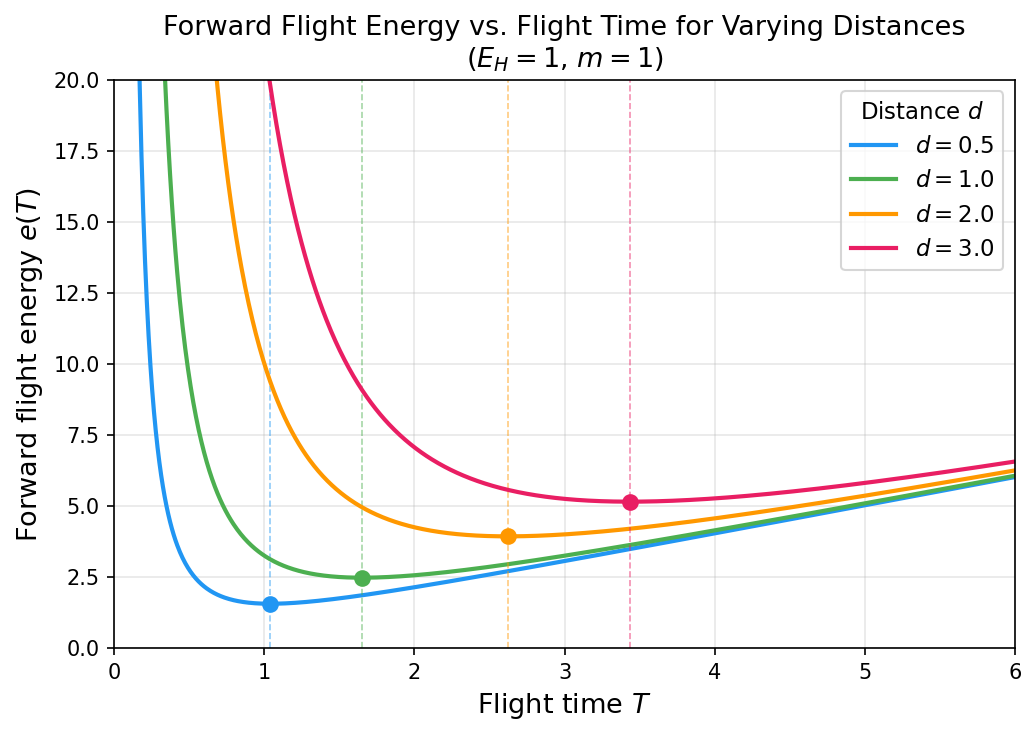
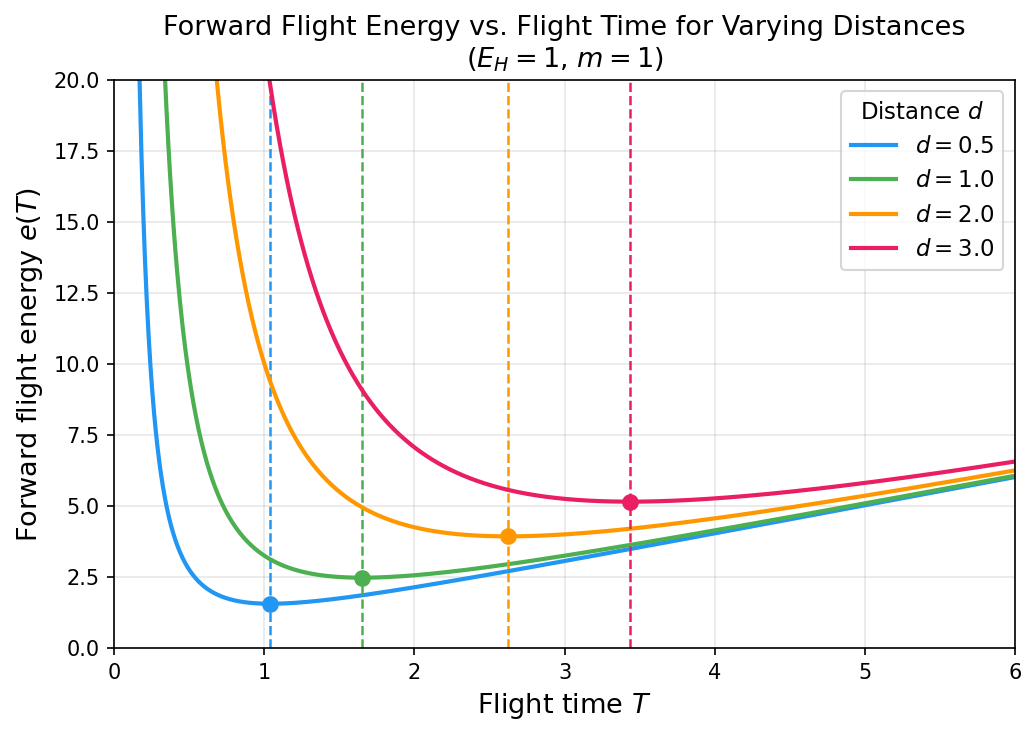
use t* and tr*, energy remaining plot, flight time plot

diff --git a/drone_sim.py b/drone_sim.py
@@ -95,21 +95,27 @@ def check_stop_energy(state, ts, m, EH):
 
 """Estimate the amount of energy needed to return back to the starting point given a current state
 of the drone by using solve_ivp to simulate flight forward."""
-def check_return_energy(state, tr, m, EH, x0, y0):
+def check_return_energy(state, m, EH, x0, y0):
     # Get the current state of the drone after coming to a stop
     x, y, vx, vy, e = state
+
+    # Compute the distance to the starting point
+    dist_return = np.sqrt((x0 - x)**2 + (y0 - y)**2)
+    # Compute the optimal return time
+    t_r_star = (9 * m / (2 * EH)) ** (1/3) * dist_return ** (2/3)
+
     # Pass in current position as starting point, initial starting point of the whole journey as
-    # ending point, flight time, mass, hovering energy
-    params = [x, y, x0, y0, tr, m, EH]
+    # ending point, optimal return time, mass, hovering energy
+    params = [x, y, x0, y0, t_r_star, m, EH]
 
     # Use the current position, velocity = 0, and energy = 0 as to not include energy already used
     # in returning energy estimate
     initial_state = [x, y, 0, 0, 0]
     # Simulate from time 0 to flight time
     t0 = 0.0
-    tspan = np.linspace(t0, tr, 100)
+    tspan = np.linspace(t0, t_r_star, 100)
 
-    sol = solve_ivp(forward_odes, (t0, tr), initial_state, args=(params,), t_eval=tspan, method="RK45", rtol=1e-8, atol=1e-10)
+    sol = solve_ivp(forward_odes, (t0, t_r_star), initial_state, args=(params,), t_eval=tspan, method="RK45", rtol=1e-8, atol=1e-10)
 
     if sol.success:
         # Return the amount of energy used to return
@@ -122,7 +128,7 @@ fixed amount of time and then return from that point back to the starting point,
 energy to perform one more scan. The energy margin that would be left after performing this return is
 compared to a given epsilon, below which the drone should turn back. Returns the difference between
 the margin and epsilon."""
-def check_energy_turn(t, state, e_max, eps, ts, tr, m, EH, ES, x0, y0, e_turn_tracker, e_used_tracker):
+def check_energy_turn(t, state, e_max, eps, ts, m, EH, ES, x0, y0, e_turn_tracker, e_used_tracker):
     # Get the amount of energy used thus far
     e_used = state[4]
 
@@ -134,7 +140,7 @@ def check_energy_turn(t, state, e_max, eps, ts, tr, m, EH, ES, x0, y0, e_turn_tr
     e_stop = stopped_state[4]
 
     # Compute the amount of energy needed to return from the state after stopping
-    return_state = check_return_energy(stopped_state, tr, m, EH, x0, y0)
+    return_state = check_return_energy(stopped_state, m, EH, x0, y0)
     e_return = return_state[4]
 
     e_turn = e_stop + e_return
@@ -177,7 +183,10 @@ def expected_return_energy(times, EH, ts, T, m, x0, y0, xT, yT):
     x = x0 + ((3 * (times**2) / (T**2)) - (2 * (times**3) / (T**3))) * (xT - x0)
     y = y0 + ((3 * (times**2) / (T**2)) - (2 * (times**3) / (T**3))) * (yT - y0)
 
-    # Predicted stop and return energy
-    expected_e_turn = EH * (T + ts) + (m * (vx**2 + vy**2) / 2) + ((9 * m) / (4 * T**2)) * ((x0 - x - ((vx * ts) / 2))**2 + (y0 - y - ((vy * ts) / 2))**2)
+    stop_x = x + vx * ts / 2
+    stop_y = y + vy * ts / 2
+    dist_return = np.sqrt((x0 - stop_x)**2 + (y0 - stop_y)**2)
+    t_r_star = (9 * m / (2 * EH)) ** (1/3) * dist_return ** (2/3)
+    expected_e_turn = EH * (t_r_star + ts) + (m * (vx**2 + vy**2) / 2) + ((9 * m) / (4 * t_r_star**2)) * ((x0 - x - ((vx * ts) / 2))**2 + (y0 - y - ((vy * ts) / 2))**2)
 
     return expected_e_turn

diff --git a/search_figure.py b/search_figure.py
@@ -100,7 +100,7 @@ def run_forward_phase(params, state, xT, yT):
             params.SOLVE_IVP_COUNTER += 2
             # Get difference between energy margin that would remain after returning and epsilon
             margin_minus_eps = check_energy_turn(
-                t, state, params.E_MAX, params.EPS, params.TS, params.TR, params.M, params.EH, params.ES, params.X0, params.Y0, e_turn_tracker, e_used_tracker
+                t, state, params.E_MAX, params.EPS, params.TS, params.M, params.EH, params.ES, params.X0, params.Y0, e_turn_tracker, e_used_tracker
             )
             e_turn_times.append(t)
 
@@ -136,18 +136,22 @@ def run_stop_phase(turn_state, params):
 
 def run_return_phase(stopped_state, params):
     """Integrate return from stopped state to (x0, y0). Returns solution."""
+    # Compute the distance to the starting point
+    dist_return = np.sqrt((params.X0 - stopped_state[0])**2 + (params.Y0 - stopped_state[1])**2)
+    # Compute the optimal return time
+    t_r_star = (9 * params.M / (2 * params.EH)) ** (1/3) * dist_return ** (2/3)
     # Pass in stopped position as initial position, initial starting point as ending position, flight
     # time, mass, and hovering energy as parameters
-    params_return = [stopped_state[0], stopped_state[1], params.X0, params.Y0, params.TR, params.M, params.EH]
+    params_return = [stopped_state[0], stopped_state[1], params.X0, params.Y0, t_r_star, params.M, params.EH]
     # Return to initial point
     params.SOLVE_IVP_COUNTER += 1
     return solve_ivp(
         forward_odes,
-        (0, params.TR),
+        (0, t_r_star),
         stopped_state,
         args=(params_return,),
         method="RK45",
-        max_step=params.TR / 200,
+        max_step=t_r_star / 200,
         rtol=1e-8,
         atol=1e-10,
     )
@@ -179,8 +183,8 @@ def simulate_search_vector(angle, params):
     located = False
 
     # Place first target 2 * radius of LIDAR scan circle away from initial position
-    xT = params.X0 + 2 * params.R_SCAN * direction[0]
-    yT = params.Y0 + 2 * params.R_SCAN * direction[1]
+    xT = params.X0 + params.R_SCAN * direction[0]
+    yT = params.Y0 + params.R_SCAN * direction[1]
 
     while True:
         # Travel to the next target
@@ -229,8 +233,8 @@ def simulate_search_vector(angle, params):
                 break
 
             # Didn't find target, generate new target
-            xT = state[0] + 2 * params.R_SCAN * direction[0]
-            yT = state[1] + 2 * params.R_SCAN * direction[1]
+            xT = state[0] + params.R_SCAN * direction[0]
+            yT = state[1] + params.R_SCAN * direction[1]
     
     # ---- Return phase ----
     stopped_index = len(full_trajectory) - 1

diff --git a/plotting.py b/plotting.py
@@ -31,7 +31,7 @@ def plot_flight_time_vs_energy(
         
         ax.plot(T, e_forward, color=color, linewidth=2, label=f'$d = {d}$')
         ax.plot(T_opt, e_opt, 'o', color=color, markersize=7, zorder=5)
-        ax.axvline(T_opt, color=color, linestyle='--', linewidth=0.8, alpha=0.5)
+        ax.axvline(T_opt, color=color, linestyle='--', linewidth=1.2)
 
     ax.set_xlabel('Flight time $T$', fontsize=13)
     ax.set_ylabel('Forward flight energy $e(T)$', fontsize=13)
@@ -630,6 +630,11 @@ def plot_energy_remaining_vs_time(
             label_turn = "Return" if i == 0 else None
             # label_stop = "Stopped" if i == 0 else None
             plt.axvline(times[turn_idx], color="orange", ls="--", lw=2, label=label_turn)
+
+            is_last = (i == len(segment_indices) - 1)
+            if is_last:
+                plt.scatter(times[turn_idx], e_remaining[turn_idx], 
+                marker="*", color="red", s=200, zorder=5, label="Target found")
             # plt.axvline(times[stopped_idx], color="purple", ls=":", lw=2, label=label_stop)
             if charge_idx is not None:
                 plt.annotate(
@@ -646,7 +651,7 @@ def plot_energy_remaining_vs_time(
 
     plt.xlabel("Time")
     plt.ylabel("Energy remaining")
-    plt.title("Energy remaining vs. time")
+    plt.title("Energy Remaining During Search")
 
     handles, labels = plt.gca().get_legend_handles_labels()
     handles.append(green_arrow)
@@ -655,7 +660,7 @@ def plot_energy_remaining_vs_time(
     if segment_indices is not None:
         order.extend([
             "Return",
-            # "Stopped",
+            "Target found",
             "Recharge"
         ])
     reordered = [(h, l) for l in order for h, lab in zip(handles, labels) if lab == l]

diff --git a/params.py b/params.py
@@ -11,7 +11,6 @@ class Parameters:
     YL: float
 
     R_SCAN: float # Radius of the "scanner"
-    T: float # Flight time from any stopped position to next target
 
     M: float # Drone mass
     EH: float # Hovering energy per second
@@ -24,12 +23,12 @@ class Parameters:
     SOLVE_IVP_COUNTER: int
     R_MAX: float # Maximum radius to energy circumference, determined from first linear search
 
+    # Flight time from any stopped position to next target
+    @property
+    def T(self):
+        return (9 * self.M / (2 * self.EH)) ** (1/3) * self.R_SCAN ** (2/3)
+
     # Time to come to a stop when turning midway
     @property
     def TS(self):
         return self.T / 20
-
-    # Time to return back to the charging station
-    @property
-    def TR(self):
-        return self.T * 5

diff --git a/main.py b/main.py
@@ -52,14 +52,13 @@ def main():
     params = Parameters(
         X0 = 0.0,
         Y0 = 0.0,
-        XL = 0.1,
-        YL = 3.5,
+        XL = 1.2,
+        YL = 1,
         R_SCAN = 0.25,
-        T = 1.0,
         M = 1.0,
         EH = 1.0,
         ES = 0.3,
-        E_MAX = 35.0,
+        E_MAX = 20,
         DT = 1e-3,
         EPS = 5e-2,
         SOLVE_IVP_COUNTER=0,
